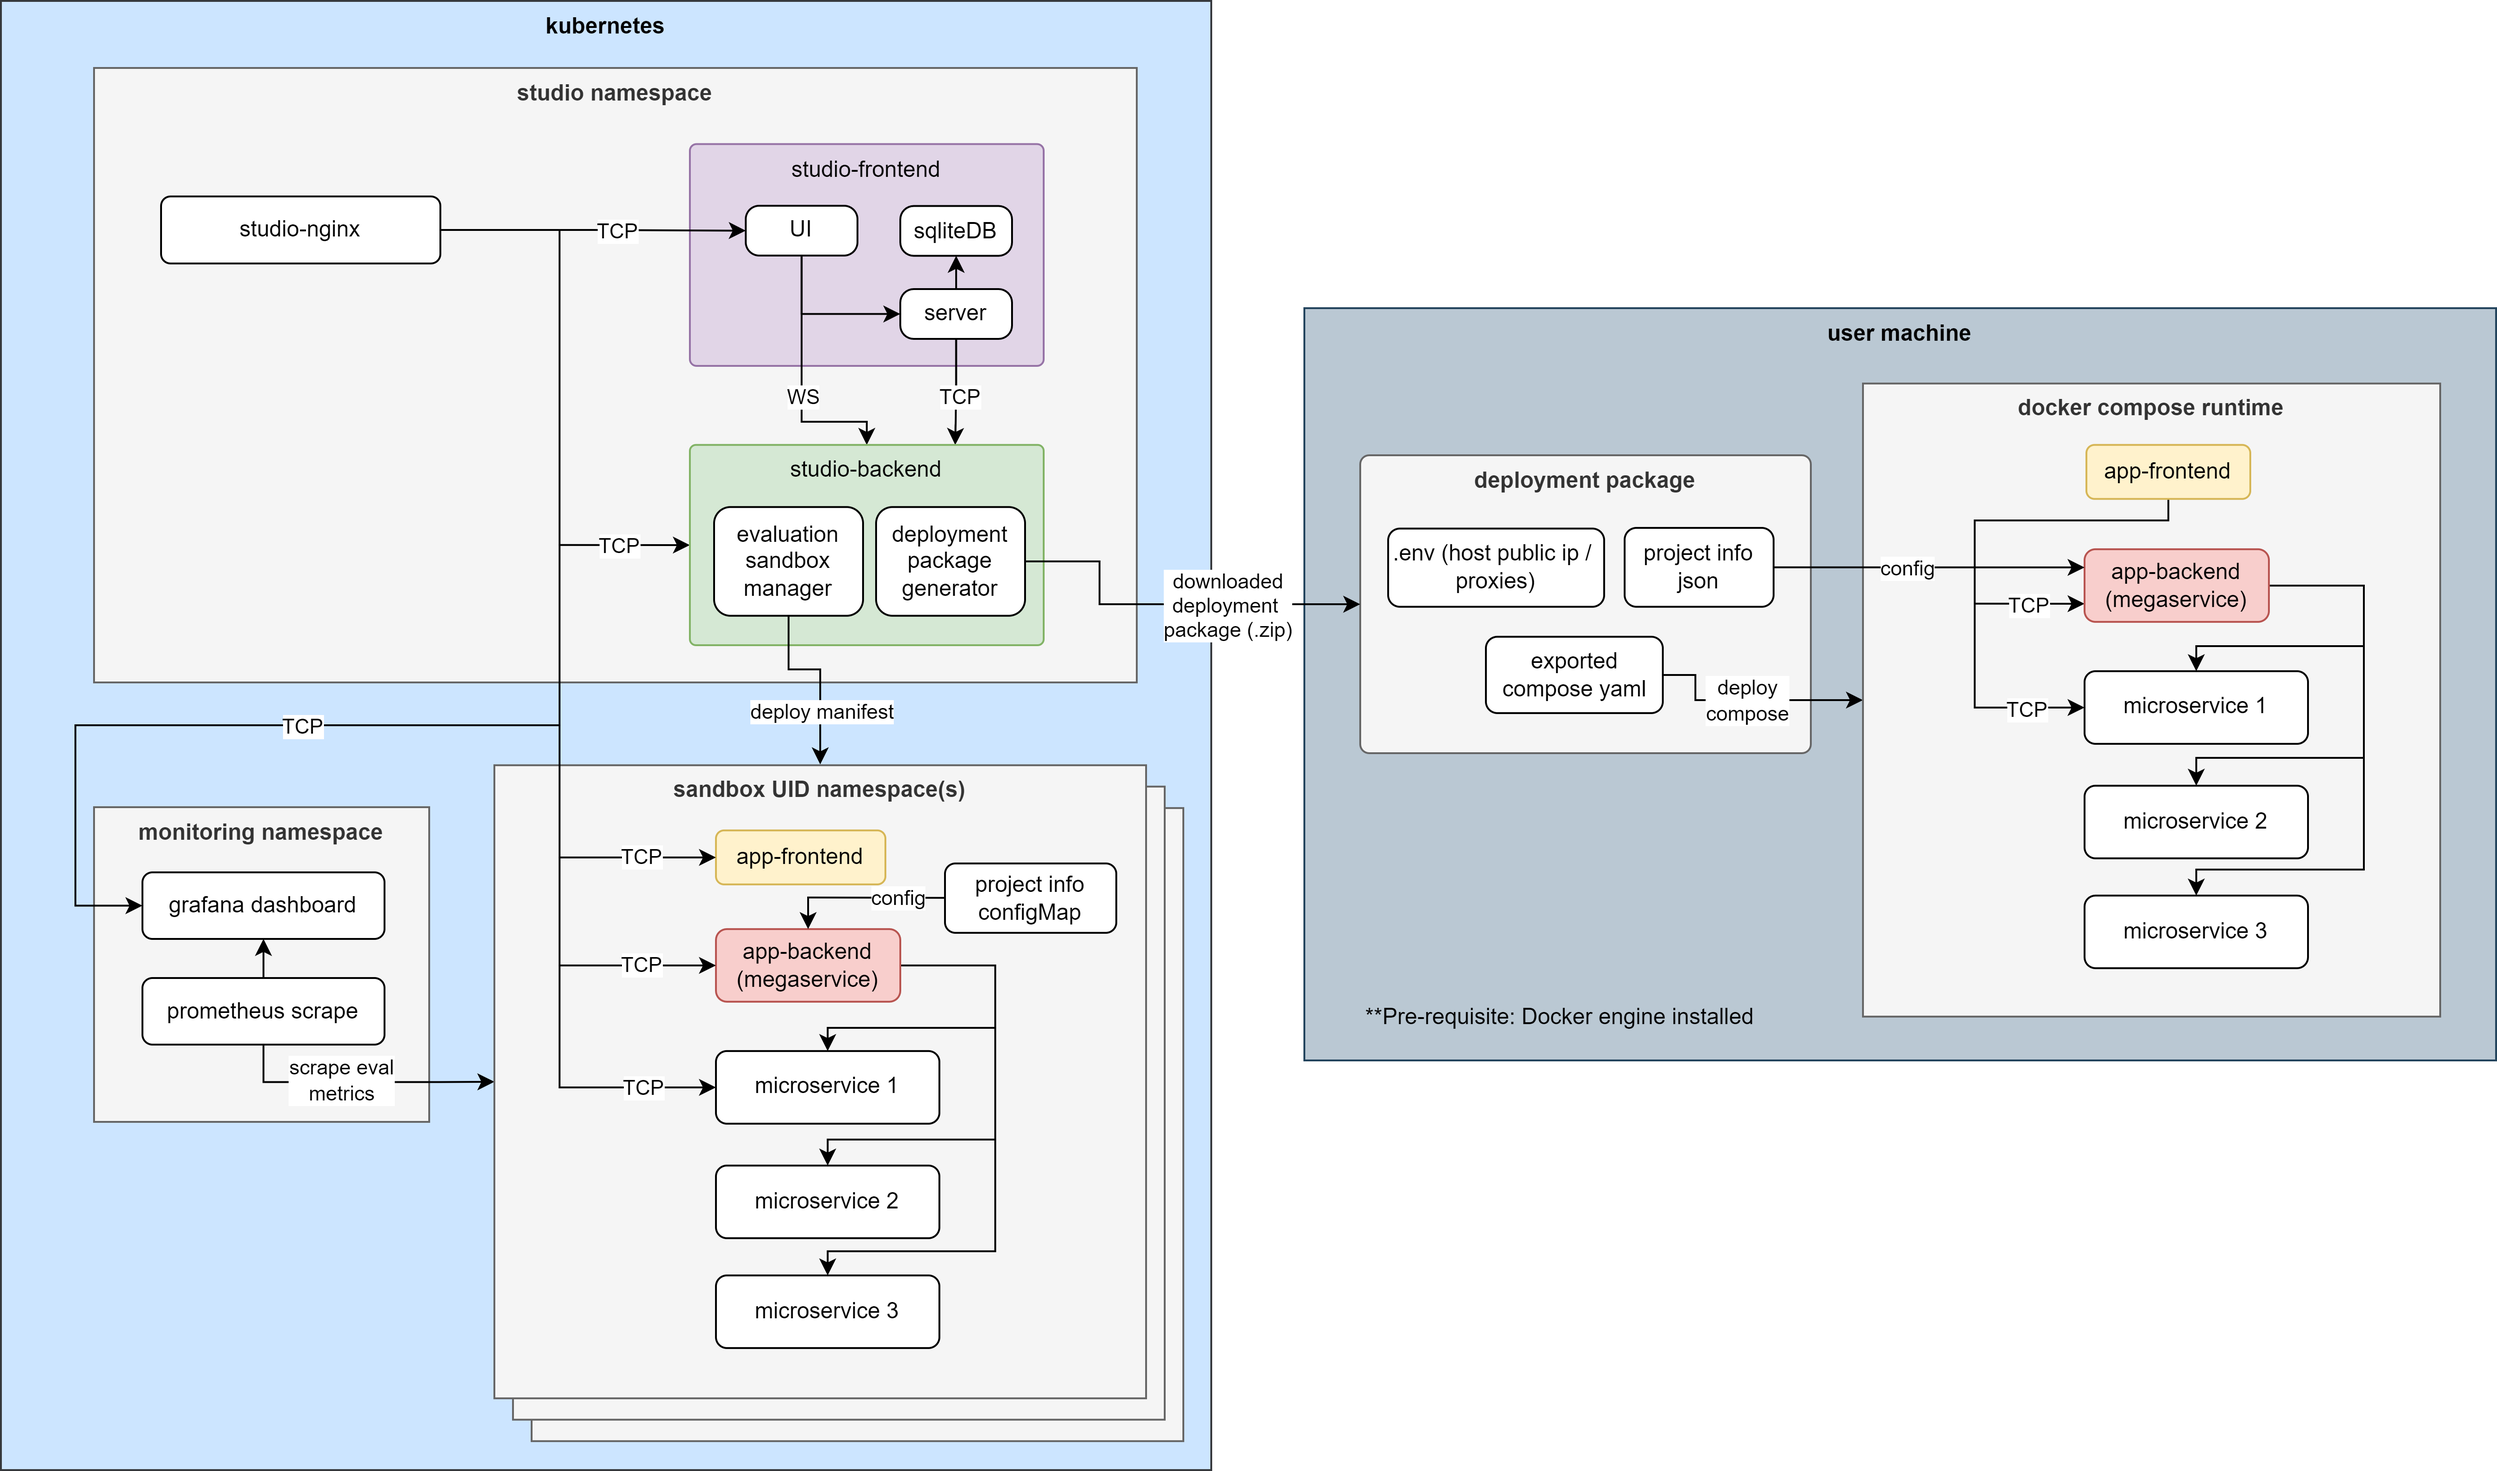
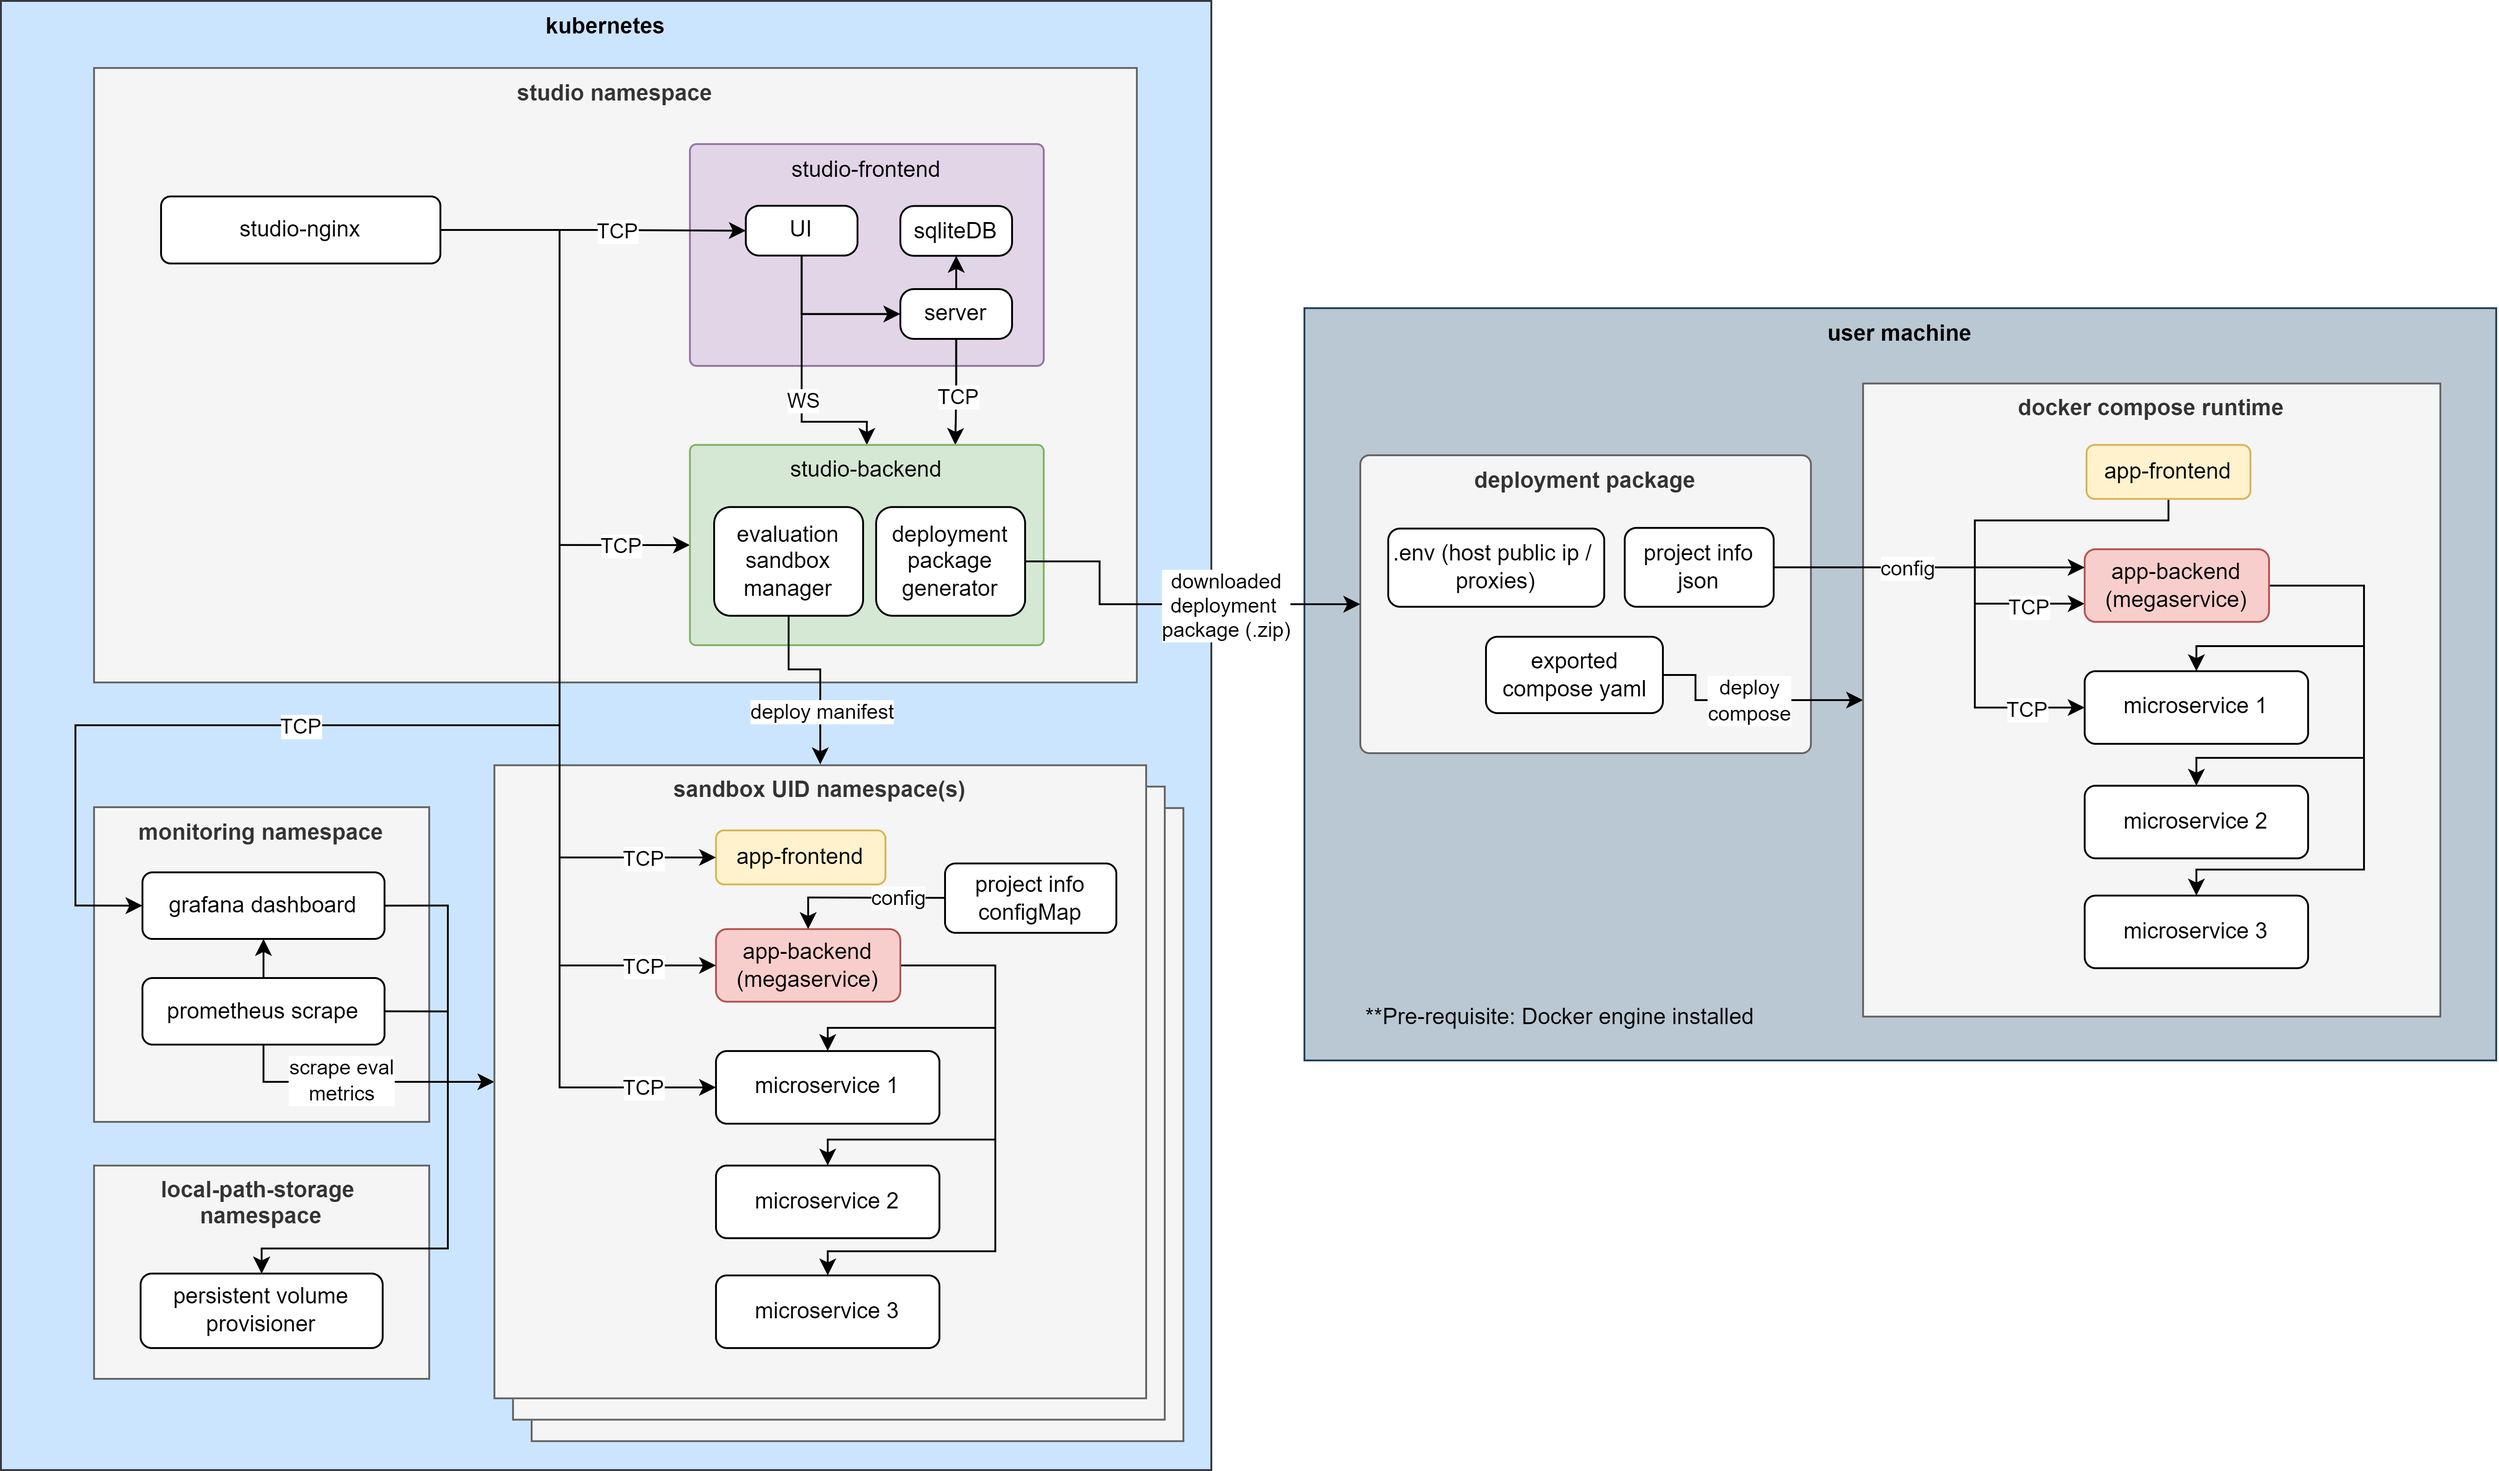
enabled local-path-provisioner, update readmes, e2e tests, setup scripts and workflow

diff --git a/tests/playwright/studio-e2e/002_test_sandbox_chatqna.spec.ts b/tests/playwright/studio-e2e/002_test_sandbox_chatqna.spec.ts
@@ -3,8 +3,8 @@ import { waitForStatusText } from '../utils';
 import path from 'path';
 
 const sampleWorkflow = path.resolve(__dirname, '../../../sample-workflows/sample_workflow_chatqna.json');
-const uploadPDF1 = path.resolve(__dirname, '../../test-files/Q3 24_EarningsRelease.pdf');
-const uploadPDF2 = path.resolve(__dirname, '../../test-files/tennis_tutorial.pdf');
+const uploadPDF1 = path.resolve(__dirname, '../../test-files/tennis_tutorial.pdf');
+const uploadPDF2 = path.resolve(__dirname, '../../test-files/Q3 24_EarningsRelease.pdf');
 
 const question = "what is intel third-quarter 2024 revenue?";
 const keyword = "$13.3 billion";
@@ -53,7 +53,7 @@ test('002_test_sandbox_chatqna', async ({ page, baseURL }) => {
     await expect(page.locator('td.MuiTableCell-root div.MuiStack-root p.MuiTypography-root').first()).toHaveText('Not Running', { timeout: 60000 });
     await page.getByLabel('a dense table').locator('button').first().click();
     await waitForStatusText(page, 'td.MuiTableCell-root div.MuiStack-root p.MuiTypography-root', 'Ready', 5, 60000);
-    await page.waitForTimeout(8000);
+    await page.waitForTimeout(10000);
 
     // Open APP-UI
     const page2Promise = page.waitForEvent('popup');
@@ -73,51 +73,54 @@ test('002_test_sandbox_chatqna', async ({ page, baseURL }) => {
     }
     apiResponse.value = "";
 
+    await page2.getByRole('button').nth(2).click();
+    await page2.getByRole('button').nth(2).click(); // Double click
+
     // Document Upload 1
-    await page2.getByRole('button').nth(2).click();
-    await page2.getByRole('button').nth(2).click();
     fileChooserPromise = page2.waitForEvent('filechooser');
     await page2.getByRole('button', { name: 'Choose File' }).click()
     fileChooser = await fileChooserPromise;
-    await fileChooser.setFiles(uploadPDF1); // TBD: Update the path to the file
+    await fileChooser.setFiles(uploadPDF1);
     await page2.getByRole('button', { name: 'Upload', exact: true }).click();
     await page2.waitForSelector('tr:nth-of-type(1) button[data-variant="light"] .tabler-icon-check', { state: 'visible', timeout: 300000 });
     // Refresh page and verify upload with retry 
-    let isVisible = false;
+    let isVisible1 = false;
+    for (let i = 0; i < 2; i++) {
+        await page2.reload();
+        await page2.waitForTimeout(1500);
+        await page2.getByRole('button').nth(2).click();
+        try {
+            await expect(page2.getByRole('cell', { name: 'tennis_tutorial.pdf' })).toBeVisible({ timeout: 60000 });
+            isVisible1 = true;
+            break;
+        } catch (error) {
+            console.log(`Attempt ${i + 1} failed: ${error}`);
+        }
+    }
+    await page2.waitForTimeout(1000);
+    
+    // Document Upload 2
+    fileChooserPromise = page2.waitForEvent('filechooser');
+    await page2.getByRole('button', { name: 'Choose File' }).click()
+    fileChooser = await fileChooserPromise;
+    await fileChooser.setFiles(uploadPDF2);
+    await page2.getByRole('button', { name: 'Upload', exact: true }).click();
+    await page2.waitForSelector('tr:nth-of-type(2) button[data-variant="light"] .tabler-icon-check', { state: 'visible', timeout: 300000 });
+    // Refresh page and verify upload with retry 
+    let isVisible2 = false;
     for (let i = 0; i < 2; i++) {
         await page2.reload();
         await page2.waitForTimeout(1500);
         await page2.getByRole('button').nth(2).click();
         try {
             await expect(page2.getByRole('cell', { name: 'Q3 24_EarningsRelease' })).toBeVisible({ timeout: 60000 });
-            isVisible = true;
+            isVisible2 = true;
             break;
         } catch (error) {
             console.log(`Attempt ${i + 1} failed: ${error}`);
         }
     }
-
-    // Document Upload 2
-    fileChooserPromise = page2.waitForEvent('filechooser');
-    await page2.getByRole('button', { name: 'Choose File' }).click()
-    fileChooser = await fileChooserPromise;
-    await fileChooser.setFiles(uploadPDF2); // TBD Update the file path
-    await page2.getByRole('button', { name: 'Upload', exact: true }).click();
-    await page2.waitForSelector('tr:nth-of-type(2) button[data-variant="light"] .tabler-icon-check', { state: 'visible', timeout: 300000 });
-    // Refresh page and verify upload with retry 
-    isVisible = false;
-    for (let i = 0; i < 2; i++) {
-        await page2.reload();
-        await page2.waitForTimeout(1500);
-        await page2.getByRole('button').nth(2).click();
-        try {
-        await expect(page2.getByRole('cell', { name: 'tennis_tutorial.pdf' })).toBeVisible({ timeout: 60000 });
-        isVisible = true;
-        break;
-        } catch (error) {
-        console.log(`Attempt ${i + 1} failed: ${error}`);
-        }
-    }
+    await page2.waitForTimeout(1000);
 
     // Link Upload
     await page2.getByRole('button', { name: 'Use Link' }).click();
@@ -126,20 +129,21 @@ test('002_test_sandbox_chatqna', async ({ page, baseURL }) => {
     await page2.getByRole('button', { name: 'Upload', exact: true }).click();
     await page2.waitForSelector('tr:nth-of-type(3) button[data-variant="light"] .tabler-icon-check', { state: 'visible', timeout: 300000 });
     // Refresh page and verify upload with retry 
-    isVisible = false;
+    let isVisible3 = false;
     for (let i = 0; i < 2; i++) {
         await page2.reload();
         await page2.waitForTimeout(1500);
         await page2.getByRole('button').nth(2).click();
         try {
-        await expect(page2.getByRole('cell', { name: 'https://pnatraj.medium.com/' })).toBeVisible({ timeout: 60000 });
-        isVisible = true;
+            await expect(page2.getByRole('cell', { name: 'https://pnatraj.medium.com/' })).toBeVisible({ timeout: 60000 });
+            isVisible3 = true;
         break;
         } catch (error) {
-        console.log(`Attempt ${i + 1} failed: ${error}`);
+            console.log(`Attempt ${i + 1} failed: ${error}`);
         }
     }
     await page2.getByRole('banner').getByRole('button').click();
+    await page2.waitForTimeout(10000);
 
     // Chat Attempt 2
     await page2.getByPlaceholder('Ask a question').fill(question);

diff --git a/README.md b/README.md
@@ -5,8 +5,8 @@
 
  ## Reduce Barrier of Adoption with Low-Code: End-to-End GenAI App Development for Productivity
  
-  **🌟Key Highlights**
- - 🛠 Build & configure GenAI applications rapidly with low-code with no setup hassle
+  **🌟Key Capabilities**
+ - 🛠 Build & configure GenAI applications rapidly with low-code and no setup hassle
  - 🔍 Instant evaluation with sandbox on Kubernetes Namespace
  - 📊 Dynamic performance measurement & benchmarking with Grafana dashboarding via Prometheus
  - ⚙ One-click deployment package generation for instant application setup
@@ -76,7 +76,7 @@ _Note: This setup has been validated on a system running Ubuntu 22.04 on an Inte
 GenAIStudio requires an on-premise Kubernetes cluster. If your server does not have Kubernetes set up, please install by following the [Kubernetes official setup guide](https://kubernetes.io/docs/setup/). Alternatively, you can try out our [setup onpremise kubernetes script](./setup-scripts/setup-onpremise-kubernetes/readme.md).
 
 ### Installation
-The installation is done using genai-studio-playbook script. The script will
+The installation is done using genai-studio playbook script. The script will
 - Deploy a persistent volume for prometheus and a customized monitoring stack based on prometheus-community/kube-prometheus-stack (which contains both Prometheus and Grafana) in the monitoring namespace.
 - Deploy the studio-backend, studio-frontend and also a studio-nginx in the studio namespace.
 
@@ -89,12 +89,11 @@ The installation can be done with the following steps:
 	```
 2. **Run the commands below**
 	```sh
-	sudo apt install ansible
-	ansible-galaxy collection install kubernetes.core #install dependencies for k8s
+	sudo apt install ansible -y
 	cd setup-scripts/setup-genai-studio
-	ansible-playbook genai-studio-playbook.yml
+	ansible-playbook genai-studio.yml
 	```
-	_Note: you can review the deployment configurations in [genai-studio-playbook.yml](https://github.com/opea-project/GenAIStudio/blob/main/setup-scripts/setup-genai-studio/genai-studio-playbook.yml)_
+	_Note: you can review the deployment configurations in [genai-studio.yml](./setup-scripts/setup-genai-studio/genai-studio.yml)_
 	
 
 ## Getting Started with GenAIStudio 

diff --git a/setup-scripts/setup-genai-studio/readme.md b/setup-scripts/setup-genai-studio/readme.md
@@ -2,9 +2,10 @@
 
 The genai-studio playbook script will:
 
-1. Deploy a persistent volume for prometheus and a customized monitoring stack based on prometheus-community/kube-prometheus-stack (which contains both Prometheus and Grafana) in the monitoring namespace.
+1. Deploy a customized monitoring stack based on prometheus-community/kube-prometheus-stack (which contains both Prometheus and Grafana) in the monitoring namespace with a local-path-provisioner in local-path-storage namespace, for dynamic Persistent Volumes (PVs) provisioning.
 
 2. Deploy the studio-backend, studio-frontend and also a studio-nginx in the studio namespace.
+
 
 
 ### Pre-requisite
@@ -16,8 +17,7 @@ The genai-studio playbook script will:
 
 Run below commands:
 ```sh
-sudo apt install ansible
-ansible-galaxy collection install kubernetes.core
+sudo apt install ansible -y
 ansible-playbook genai-studio.yml
 ```
 

diff --git a/setup-scripts/setup-onpremise-kubernetes/readme.md b/setup-scripts/setup-onpremise-kubernetes/readme.md
@@ -9,11 +9,12 @@ The ansible scripts used here are using kubeadm method of installing an onpremis
 
 ### Installation steps:
 
+_Note: This script has only been validated on a fresh installed Ubuntu 22.04 machines._
+
 Run below commands:
 ```sh
-sudo apt install ansible
-ansible-galaxy collection install kubernetes.core
-ansible-playbook -i inventory.ini kubernetes-cluster.yml
+sudo apt install ansible -y
+ansible-playbook -i inventory.ini onpremise-kubernetes.yml
 ```
 
 To push your local docker images into the harbor container registry, run below:

diff --git a/setup-scripts/build-image-to-registry/readme.md b/setup-scripts/build-image-to-registry/readme.md
@@ -11,6 +11,6 @@ The ansible scripts used here are building, tag and push to the specified contai
 
 Run below commands:
 ```sh
-sudo apt install ansible
+sudo apt install ansible -y
 ansible-playbook build-image-to-registry.yml
 ```
